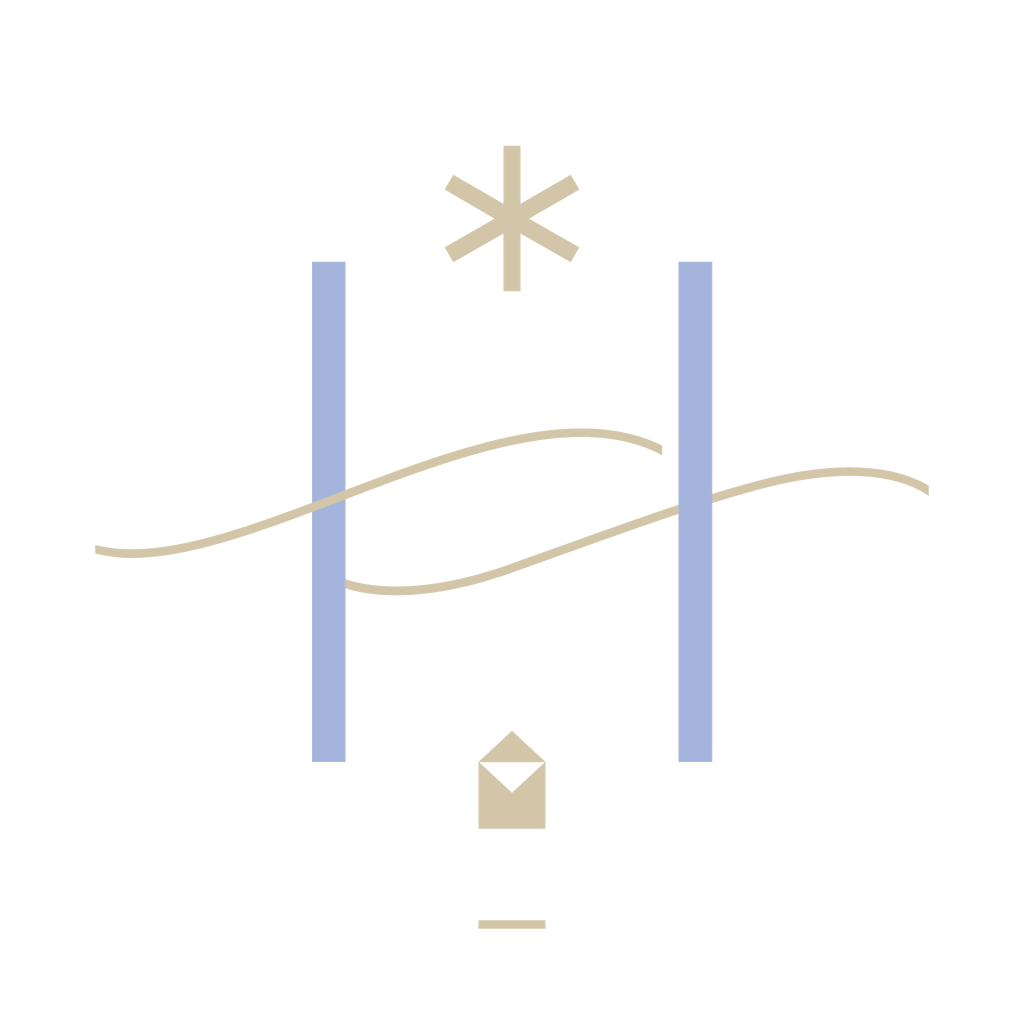
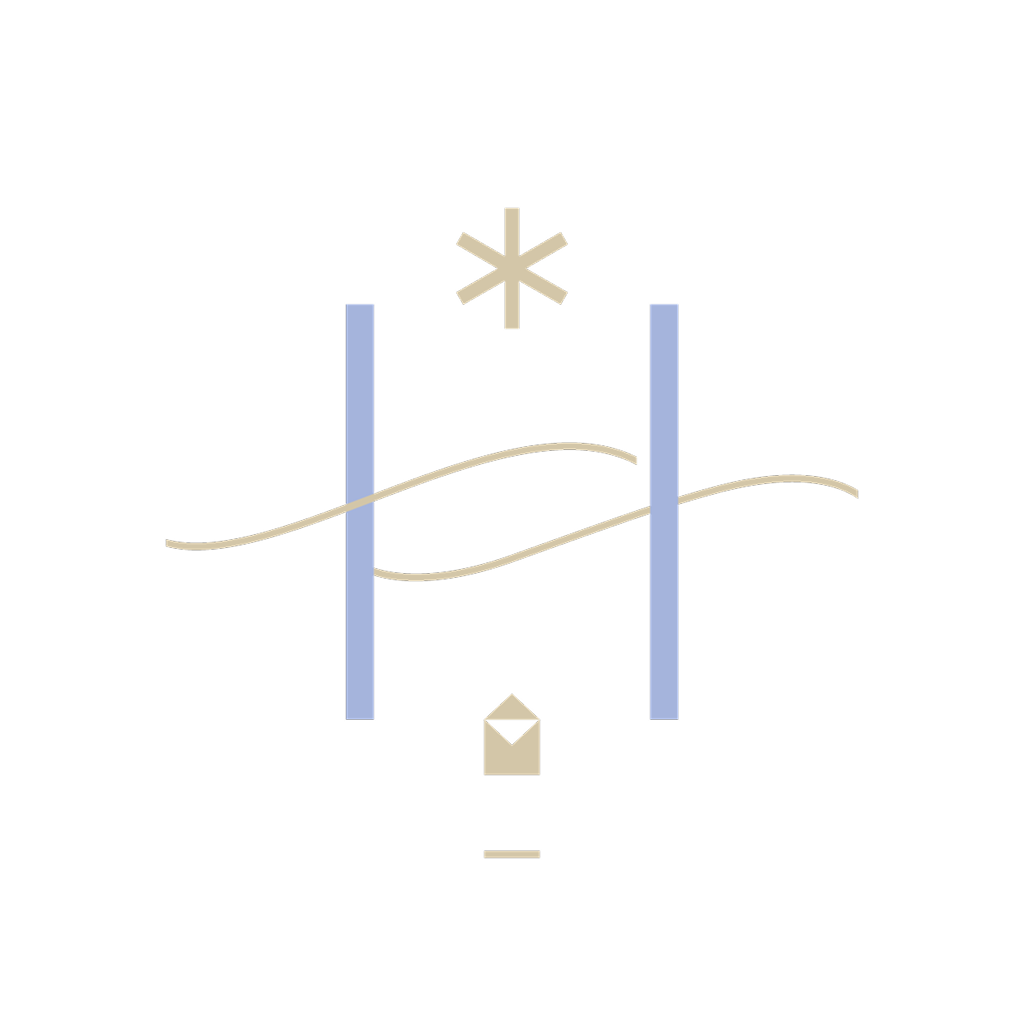
style: 스플래시, 아이콘 수정

diff --git a/src/app/_layout.tsx b/src/app/_layout.tsx
@@ -2,70 +2,15 @@ import { useFonts } from 'expo-font';
 import { DarkTheme, DefaultTheme, ThemeProvider } from 'expo-router';
 import { Tabs } from 'expo-router/tabs';
 import * as SplashScreen from 'expo-splash-screen';
-import { useColorScheme, Platform } from 'react-native';
-import { useEffect } from 'react';
-import * as Notifications from 'expo-notifications';
-import * as Device from 'expo-device';
-import Constants from 'expo-constants';
+import { useColorScheme } from 'react-native';
 
 import { AnimatedSplashOverlay } from '@/components/animated-icon';
 import { CustomTabBar } from '@/components/custom-tab-bar';
 
 SplashScreen.preventAutoHideAsync();
 
-// 푸시 토큰을 서버에 등록
-async function registerPushToken() {
-  // 실제 기기에서만 동작 (시뮬레이터 제외)
-  if (!Device.isDevice) return;
-
-  // 알림 권한 요청
-  const { status: existingStatus } = await Notifications.getPermissionsAsync();
-  let finalStatus = existingStatus;
-  if (existingStatus !== 'granted') {
-    const { status } = await Notifications.requestPermissionsAsync();
-    finalStatus = status;
-  }
-  if (finalStatus !== 'granted') return;
-
-  // Android 알림 채널 설정
-  if (Platform.OS === 'android') {
-    await Notifications.setNotificationChannelAsync('default', {
-      name: 'default',
-      importance: Notifications.AndroidImportance.MAX,
-      sound: 'default',
-    });
-  }
-
-  // Expo 푸시 토큰 발급
-  const projectId = Constants.expoConfig?.extra?.eas?.projectId ?? Constants.easConfig?.projectId;
-  if (!projectId) return;
-
-  const tokenData = await Notifications.getExpoPushTokenAsync({ projectId });
-  const token = tokenData.data;
-
-  // 서버에 토큰 등록
-  try {
-    await fetch('https://sahan.dothome.co.kr/api/push/register.php', {
-      method: 'POST',
-      headers: { 'Content-Type': 'application/json' },
-      body: JSON.stringify({
-        token,
-        platform: Platform.OS,
-        device_id: Constants.sessionId ?? token,
-      }),
-    });
-  } catch (_e) {
-    // 네트워크 오류 무시 (앱 실행에 영향 없음)
-  }
-}
-
 export default function TabLayout() {
   const colorScheme = useColorScheme();
-
-  // 앱 시작 시 푸시 토큰 서버 등록
-  useEffect(() => {
-    registerPushToken();
-  }, []);
 
   // eslint-disable-next-line @typescript-eslint/no-unused-vars
   const [_fontsLoaded] = useFonts({

diff --git a/src/components/animated-icon.tsx b/src/components/animated-icon.tsx
@@ -26,7 +26,7 @@ import { Path, Svg } from 'react-native-svg';
 
 // ─── 비율/고정 상수 ──────────────────────────────────────────────────────
 // 웹 원본은 width:96px 기준, 미디어쿼리에서 13.333vw로 전환
-const WRAP_RATIO = 13.333 / 100;  // vw
+const WRAP_RATIO = (13.333 * 0.8) / 100;  // vw (0.8x scale)
 
 // wave: 웹에서 width:136px 고정 → 모바일 18.889vw
 const WAVE_RATIO = 18.889 / 100;
